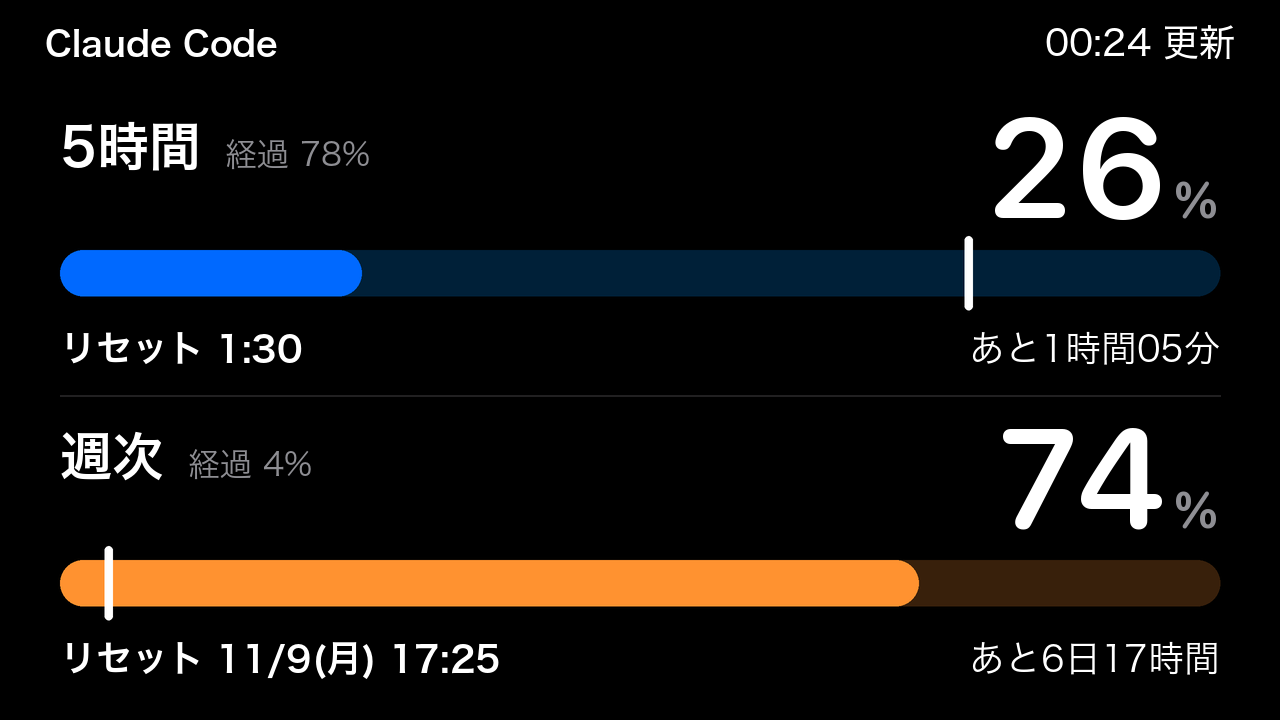
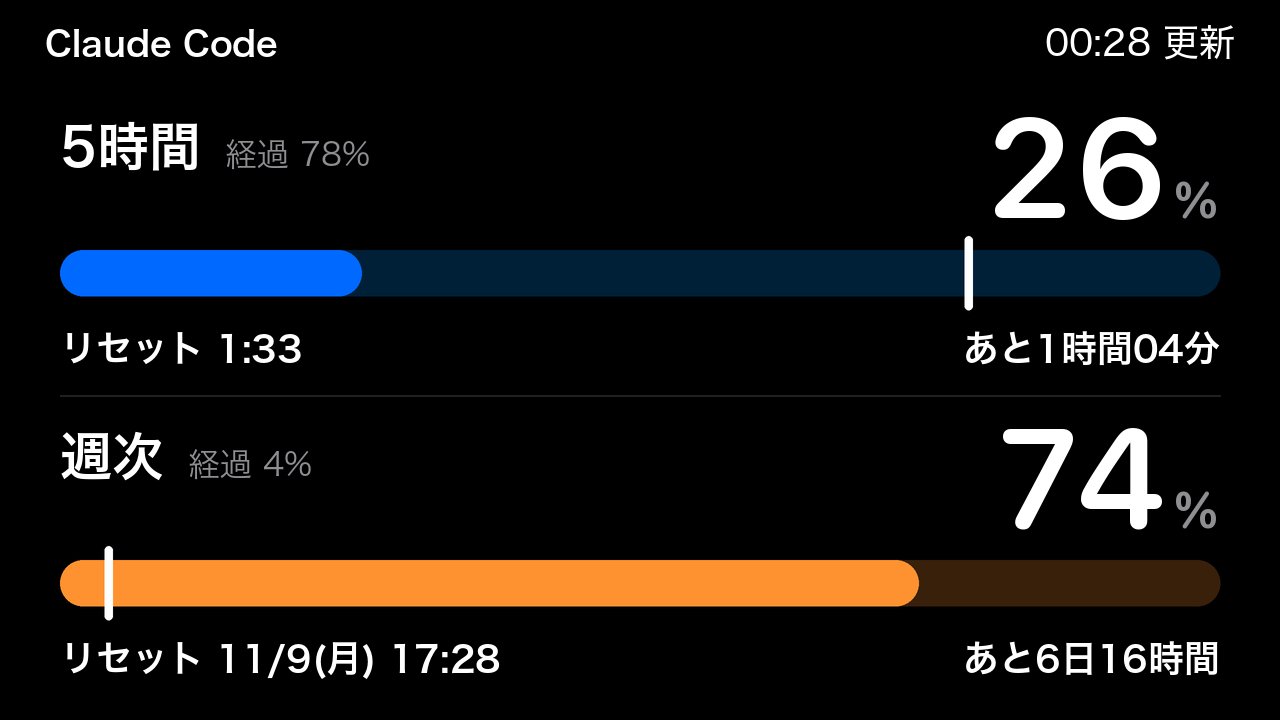
fix(pace): 下の行のリセットと残り時間を、同じ大きさ・同じ太さ（W6）にそろえる
残り時間を W3 にしていたので、同じ 36 px でも小さく見えた（ユーザーの指摘）。

diff --git a/claude_usage_display/pace.py b/claude_usage_display/pace.py
@@ -103,6 +103,8 @@ def render(snapshot: Snapshot | None, now: datetime, status: str | None = None,
                       font=rounded(sized(NUMBER[1])), fill=LABEL, anchor="rs")
         when, remain = gauge.reset_lines(meter.resets_at, now)
         baseline = (top + LINE[0]) * s
-        draw.text((left, baseline), _reset_text(when), font=font(sized(LINE[1]), 6), fill=LABEL, anchor="ls")
-        draw.text((right, baseline), remain, font=font(sized(LINE[1]), 3), fill=LABEL, anchor="rs")
+        # リセットと残り時間は、大きさも太さも同じ（2026-11-03、残り時間を W3 にしていたら小さく見えるとユーザーが指摘）
+        line_font = font(sized(LINE[1]), 6)
+        draw.text((left, baseline), _reset_text(when), font=line_font, fill=LABEL, anchor="ls")
+        draw.text((right, baseline), remain, font=line_font, fill=LABEL, anchor="rs")
     return image

diff --git a/tests/test_pace.py b/tests/test_pace.py
@@ -71,7 +71,7 @@ class PaceTest(unittest.TestCase):
         self.assertLess(pace_end + 40, number_start)
         line = font(pace.LINE[1], 6)
         reset_end = pace.MARGIN + line.getlength("リセット 12/31(木) 23:59")
-        remain_start = SIZE[0] - pace.MARGIN - font(pace.LINE[1], 3).getlength("あと6日23時間")
+        remain_start = SIZE[0] - pace.MARGIN - line.getlength("あと6日23時間")  # 残り時間もリセットと同じ字
         self.assertLess(reset_end + 40, remain_start)
 
     def test_unit_is_smaller_than_half_of_the_number(self):
